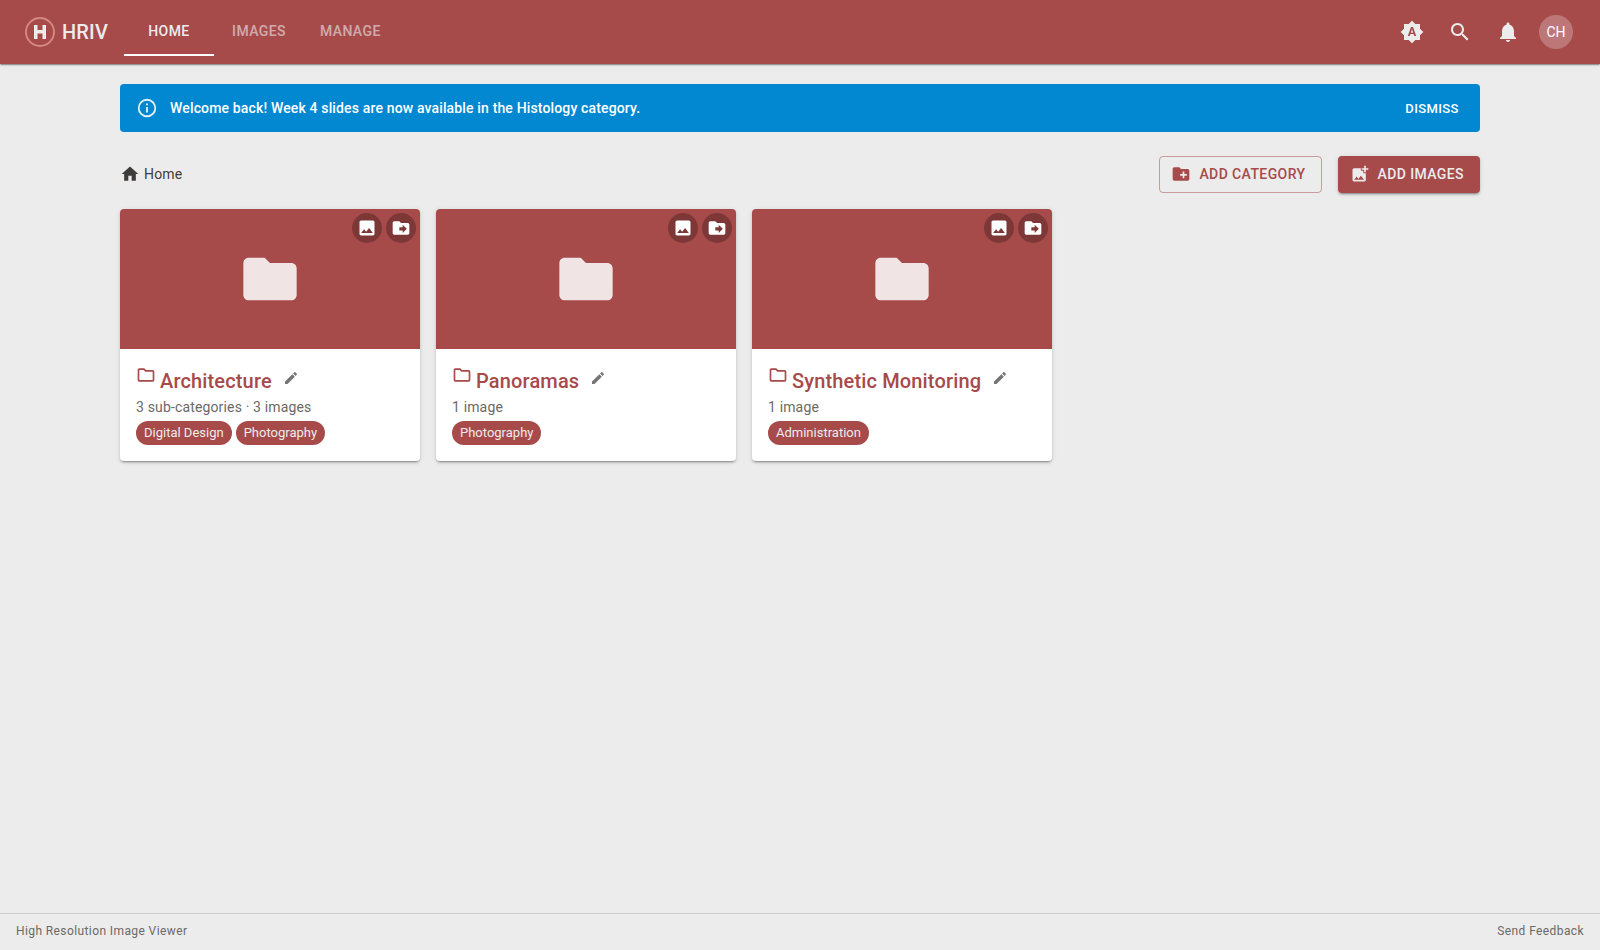
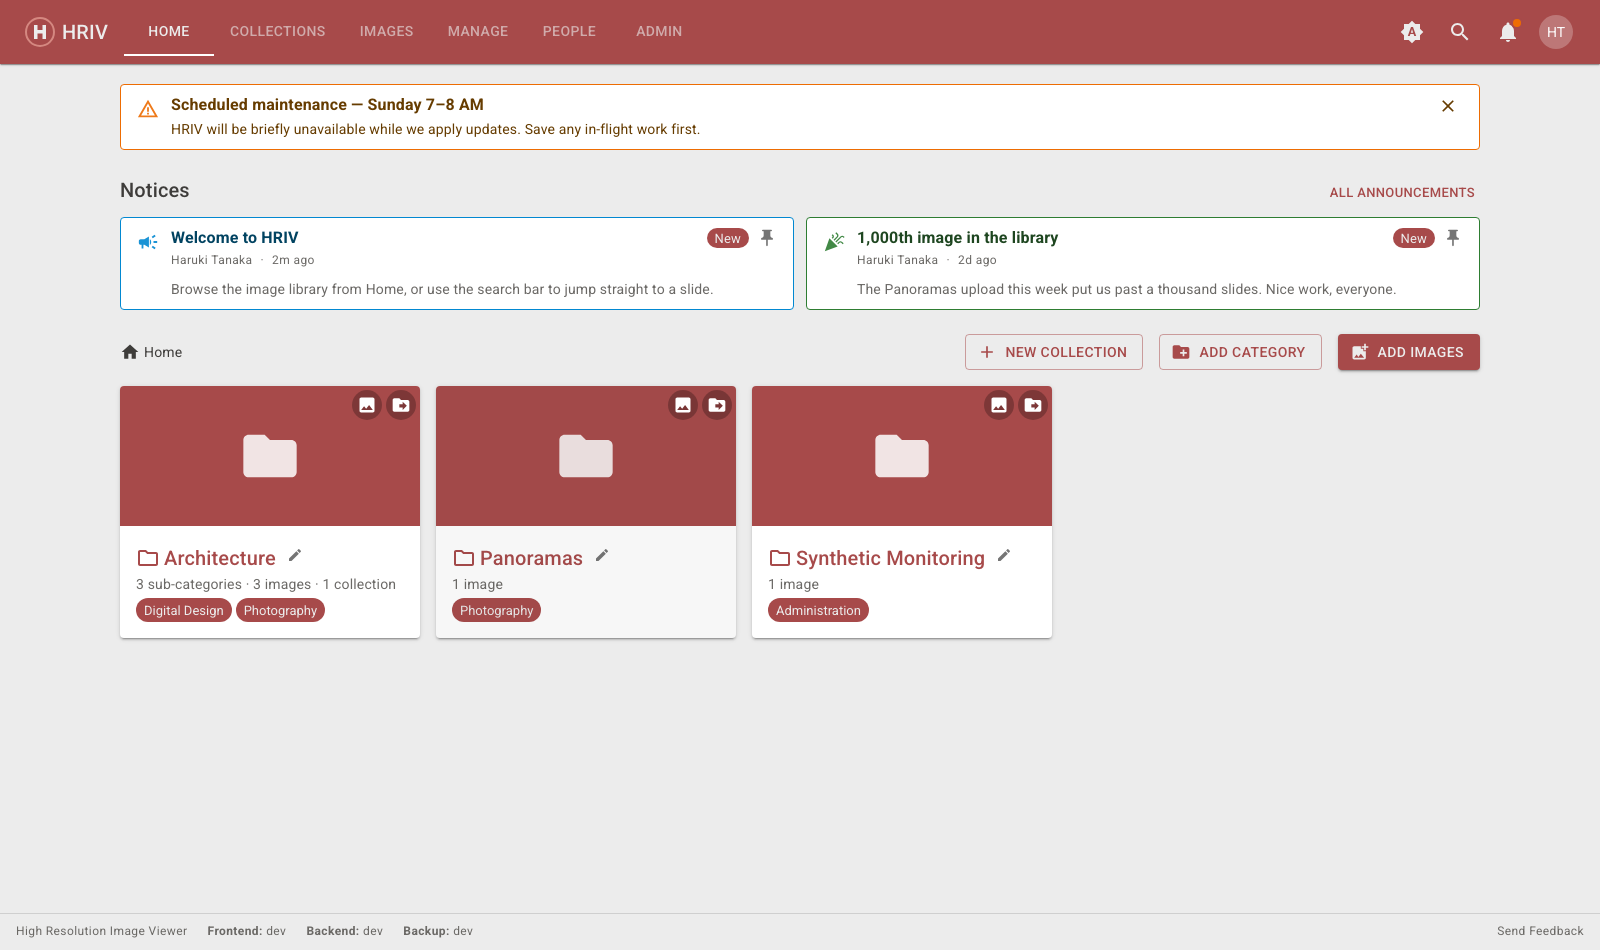
docs(guide): update the user guide for the announcements stream
The guide still described the legacy singleton announcement (Manage →
Announcement, dismissible banner, What's New). Rewrites the
Announcements page around the bell/Inbox stream, composer, seen-state,
reactions, pinning, banners, and the My announcements filter; points
Documentation/About at the avatar menu; replaces the stale screenshots
with new captures of the stream, composer, banner, notices shelf,
sign-in broadcast, and avatar menu.

Generated with [Devin](https://devin.ai)

diff --git a/frontend/guide/announcements.md b/frontend/guide/announcements.md
@@ -1,24 +1,53 @@
 # Announcements
 
-Post one shared announcement that every user sees — students and instructors
-alike — as a banner at the top of the app and on the sign-in screen.
+One stream for class notices, events, reminders, and release notes.
+An amber dot on the **bell** means something's new.
 
-Open **Manage → Announcement**.
+![The bell peeking at new announcements](images/announcements-bell.png)
 
-![The announcement editor](images/announcement-modal.png)
+## Reading
 
-1. Type your message.
-2. Switch on **Enable announcement**.
-3. **Save**.
+![The Announcements page](images/announcements-page.png)
 
-![An announcement banner](images/announcement-banner.png)
+- Click the **bell** to peek at the newest posts — **See all** opens the
+  full **Inbox**.
+- **Pinned** posts sit on the **Home** notices shelf; **banner** posts
+  appear across the top of the app — and the sign-in screen — until
+  closed.
+- Tap an emoji under a post to react. Seen posts stay in the Inbox,
+  quieter — nothing is ever removed.
 
-- Users can dismiss the banner; it comes back whenever you change the
-  message.
-- To remove it, open the editor and switch **Enable announcement** off.
-- You can also view the current announcement any time from your profile
-  menu (your avatar → the announcement link).
+![Pinned announcements on Home](images/announcements-notices.png)
 
-::: tip Keep it short
-The banner is a single line — a sentence or two works best.
+![A banner announcement above the app](images/announcement-banner.png)
+
+![The sign-in screen broadcast](images/announcements-login.png)
+
+## Posting
+
+Instructors and admins: **New announcement** on the Announcements page —
+or **Post to group** from a group's row menu to pre-fill the audience.
+
+![The announcement composer](images/announcements-composer.png)
+
+1. **To:** — pick your groups and/or programs. Admins can also reach
+   **Everyone** or staff audiences.
+2. Choose an icon (notice, event, reminder, celebration…) and write the
+   message — Markdown, images, and video all work.
+3. **More options**: schedule publish and expiry, pin it, or show it as
+   the app banner.
+4. **Post** — or **Save draft** to finish later. Set a future date and
+   the button becomes **Schedule**.
+
+::: tip Edits don't re-notify
+Changing a post does not resurface it. Tick **Notify readers again** on
+an edit only when readers should see it as new.
 :::
+
+## Tracking your posts
+
+![The My announcements filter](images/announcements-mine.png)
+
+The **My announcements** filter lists your posts by status — Draft,
+Scheduled, Live, Expired — with **Seen by N of M** counts, plus Edit,
+Duplicate, and Delete.

diff --git a/frontend/guide/index.md b/frontend/guide/index.md
@@ -13,9 +13,10 @@ publish — you decide what they see and how it's organized.
 - **Home** – browse the image library
 - **Collections** – named sets of images (everyone can create their own)
 - **Images** – a table of every image, with filters and bulk actions
-- **Manage** – categories, groups, and the site-wide announcement
-- **Bell icon** – notifications, "What's New", this guide, and app info
-- **Your avatar** – account details and sign out
+- **Manage** – categories, programs, and groups
+- **Bell icon** – your announcements stream
+- **Your avatar** – account details, Documentation (this guide), app info,
+  and sign out
 
 ## What's in this guide
 
@@ -24,7 +25,7 @@ publish — you decide what they see and how it's organized.
 - [Managing Images](images) — details, annotations, moving, deleting
 - [Managing Groups](groups) — control which students see which categories
 - [Collections](collections) — gather images into synchronized or sequence sets
-- [Announcements](announcements) — post a message everyone sees
+- [Announcements](announcements) — notices, events, and release notes in one stream
 - [Getting Help](help) — questions and feedback
 
 ::: tip Students?

diff --git a/frontend/guide/help.md b/frontend/guide/help.md
@@ -14,12 +14,13 @@ next to the version numbers.
 
 ## Other spots to check
 
-- The **bell icon** (top right) → **What's New** lists recent changes to
-  the app.
-- **About** in the same menu shows the running version — handy to mention
-  when reporting a problem.
+- The **bell icon** (top right) opens your announcements — release notes
+  land there too.
+- Your **avatar menu** (top right) holds **Documentation** (this guide)
+  and **About** — the About dialog shows the running version, handy to
+  mention when reporting a problem.
 - Need to reach a person? Contact the BCIT Teaching and Learning Unit.
 - The footer also links to the **HRIV project on GitHub** for the
   technically curious.
 
-![The notifications menu](images/notifications.png)
+![The avatar menu](images/profile-menu.png)

diff --git a/frontend/guide/README.md b/frontend/guide/README.md
@@ -1,7 +1,7 @@
 # HRIV user guide (source)
 
-This folder holds the user-facing guide shown in the app via the bell menu
-(**Documentation**, `?page=guide`). It is plain Markdown rendered by the
+This folder holds the user-facing guide shown in the app via the avatar
+menu (**Documentation**, `?page=guide`). It is plain Markdown rendered by the
 frontend — there is no separate docs site or build step.
 
 ## Editing
@@ -34,5 +34,5 @@ of Markdown — keep pages inside it:
 ## Previewing
 
 Run the app (`npm run dev` or `docker compose up`), sign in as an instructor
-or admin, and open **Documentation** from the bell menu — or go straight to
-`/?page=guide&doc=your-page`.
+or admin, and open **Documentation** from your avatar menu — or go straight
+to `/?page=guide&doc=your-page`.
